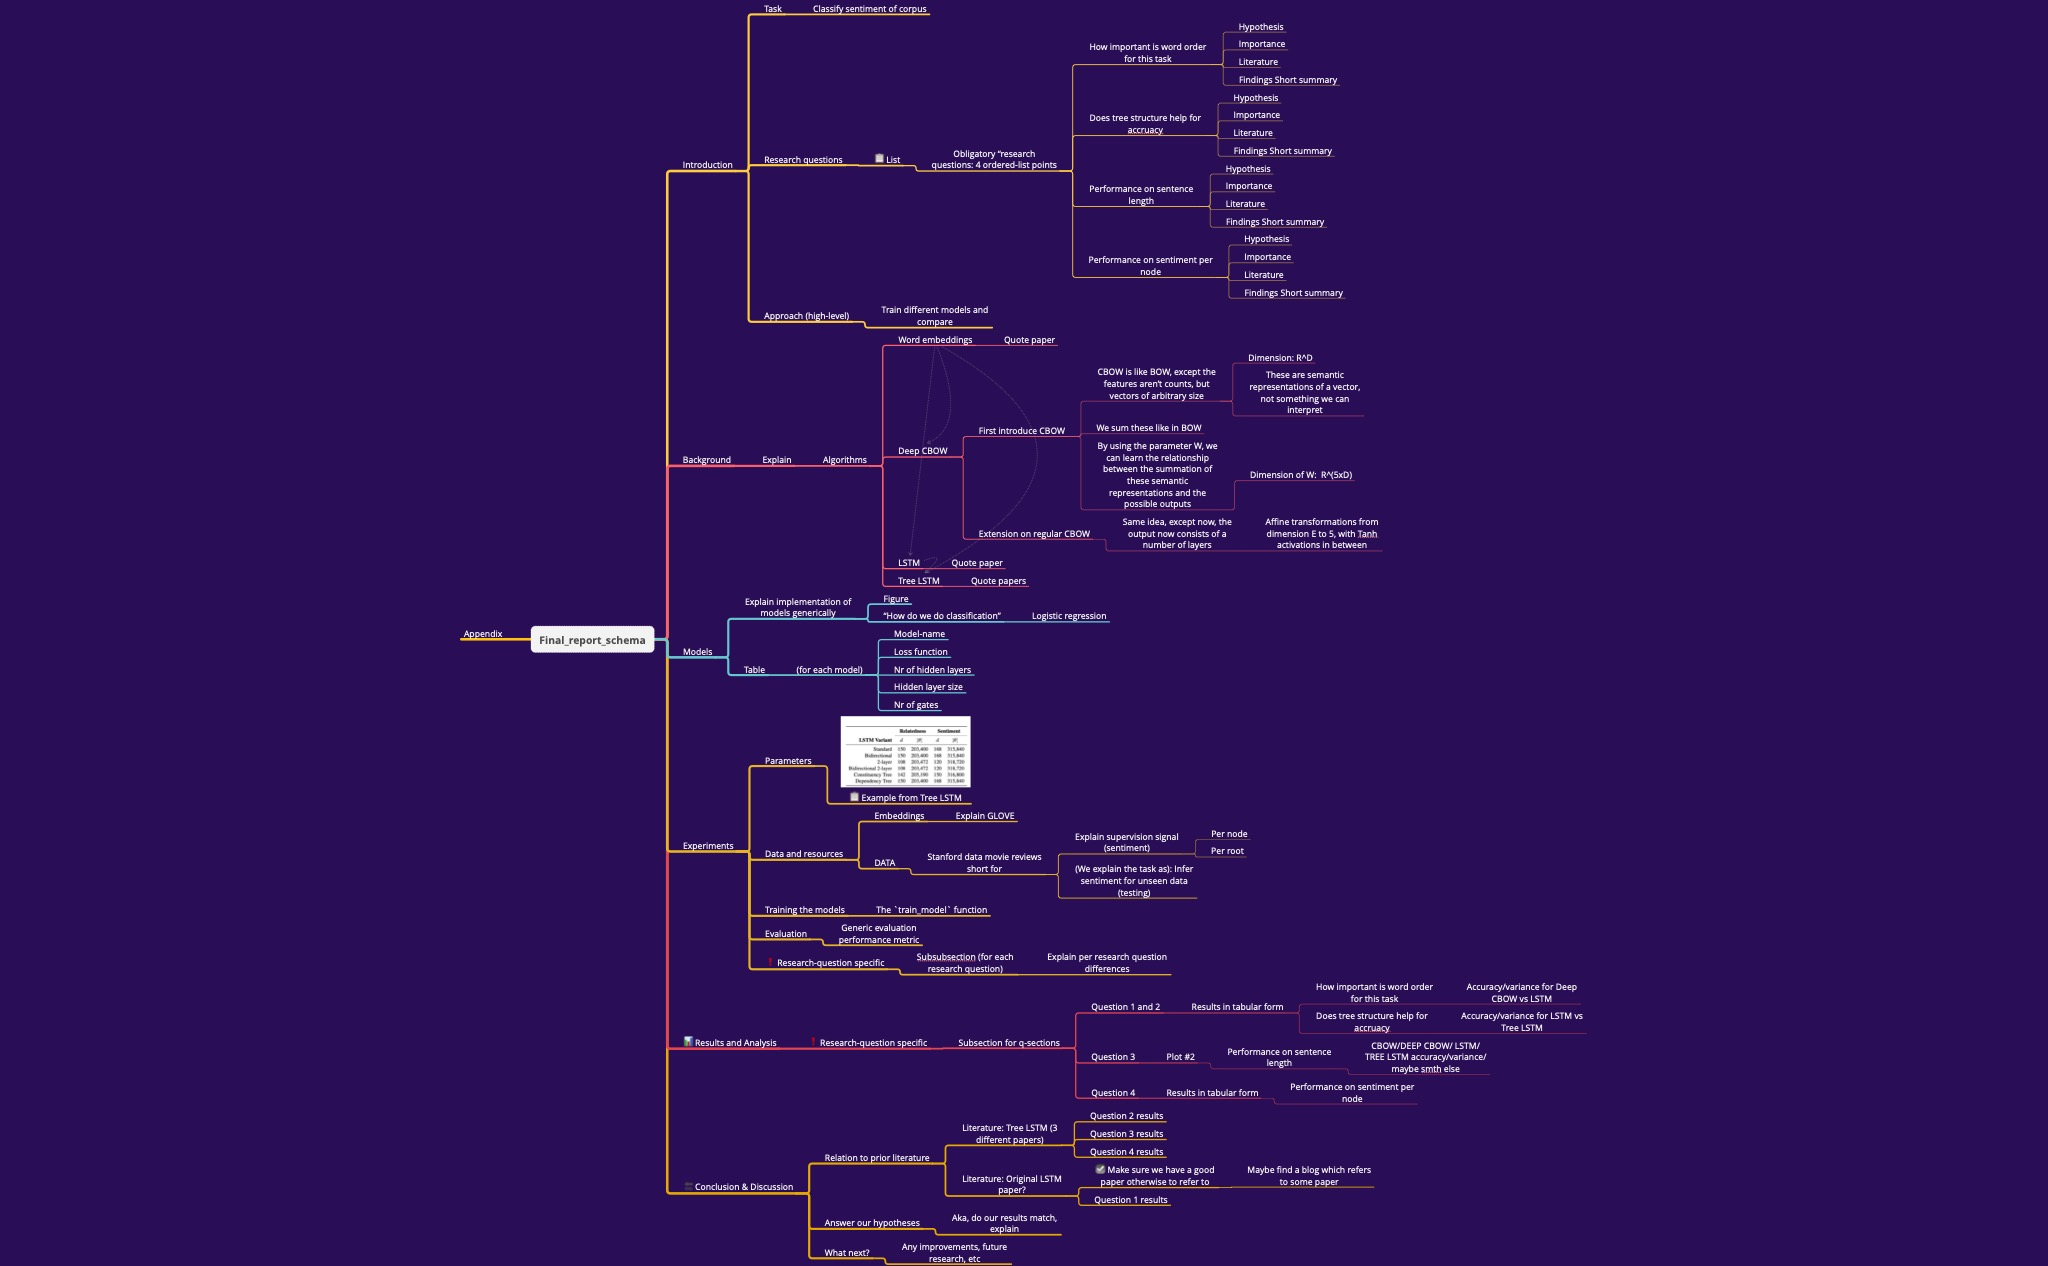
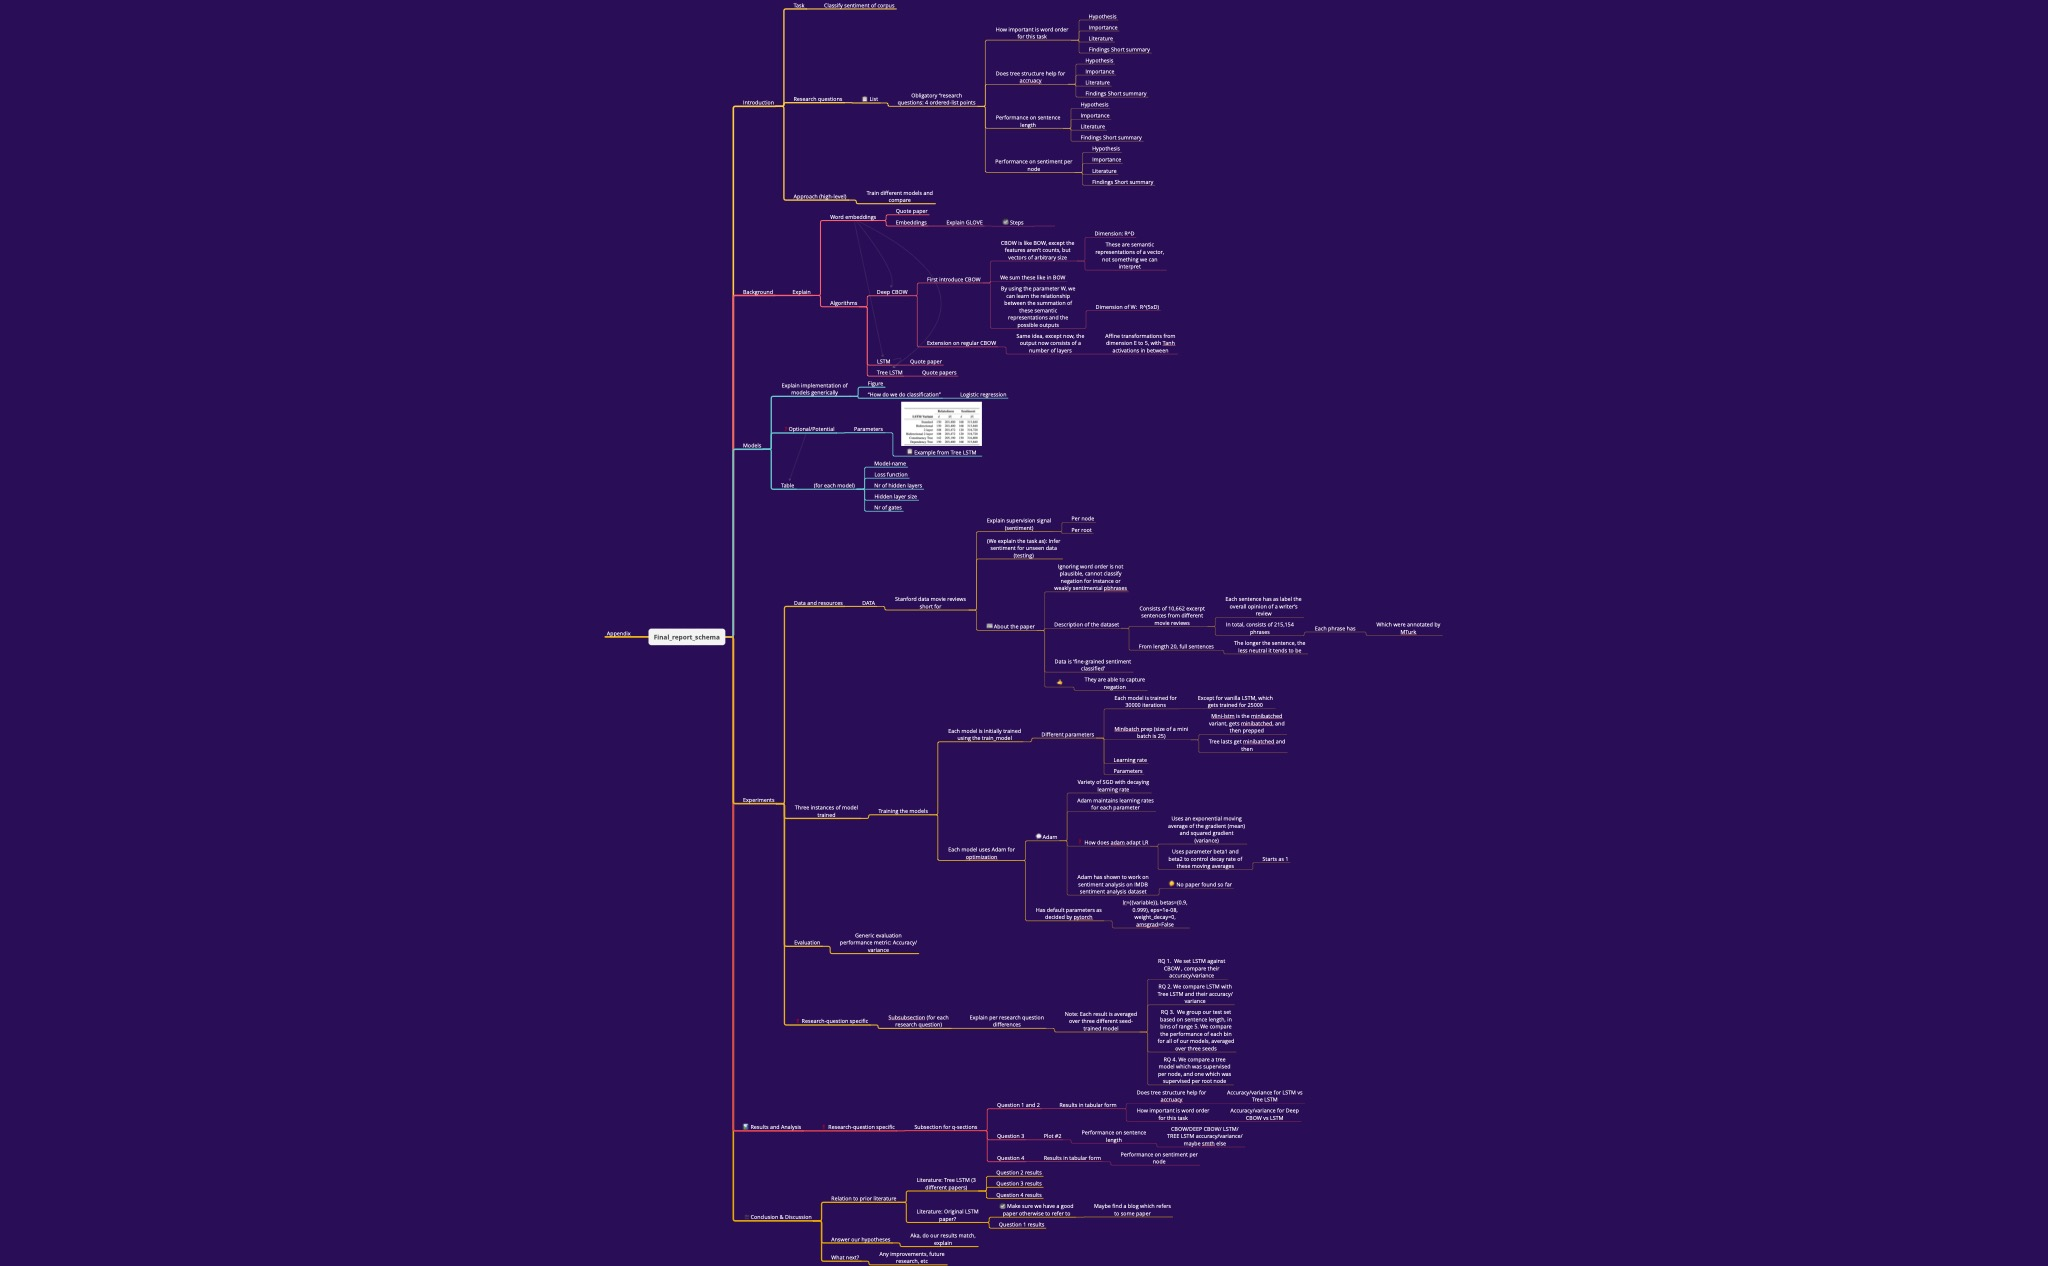
Experiments: Documentation update

Changed region(s): [[0.2188, 0.0, 0.7812, 1.0], [0.375, 0.0, 0.4688, 0.0308], [0.3438, 0.8626, 0.375, 0.8934]]

diff --git a/doc/Final_report_schema.md b/doc/Final_report_schema.md
@@ -61,13 +61,41 @@
 
 ### Explain
 
+- Word embeddings
+
+	- Quote paper
+
+	- Embeddings
+
+		- Explain GLOVE
+
+			- ☑ Steps
+
+				- 
+
 - Algorithms
 
-	- Word embeddings
-
-		- Quote paper
-
 	- Deep CBOW
+
+		- First introduce CBOW
+
+			- CBOW is like BOW, except the features aren’t counts, but vectors of arbitrary size
+
+				- Dimension: R^D
+
+				- These are semantic representations of a vector, not something we can interpret
+
+			- We sum these like in BOW
+
+			- By using the parameter W, we can learn the relationship between the summation of these semantic representations and the possible outputs
+
+				- Dimension of W:  R^(5xD)
+
+		- Extension on regular CBOW
+
+			- Same idea, except now, the output now consists of a number of layers
+
+				- Affine transformations from dimension E to 5, with Tanh activations in between
 
 	- LSTM
 
@@ -87,6 +115,12 @@
 
 	- Logistic regression
 
+###  ❓Optional/Potential
+
+- Parameters
+
+	- 📋 Example from Tree LSTM
+
 ### Table
 
 - (for each model)
@@ -105,10 +139,6 @@
 
 ### Data and resources
 
-- Embeddings
-
-	- Explain GLOVE
-
 - DATA
 
 	- Stanford data movie reviews short for 
@@ -121,19 +151,97 @@
 
 		- (We explain the task as): Infer sentiment for unseen data (testing)
 
-### Training the models
+		- 📰 About the paper
 
-- The `train_model` function
+			- Ignoring word order is not plausible, cannot classify negation for instance or weakly sentimental pbhrases
+
+			- Description of the dataset
+
+				- Consists of 10,662 excerpt sentences from different movie reviews
+
+					- Each sentence has as label the overall opinion of a writer’s review
+
+					- In total, consists of 215,154 phrases
+
+						- Each phrase has 
+
+							- Which were annotated by MTurk
+
+				- From length 20, full sentences
+
+					- The longer the sentence, the less neutral it tends to be
+
+			- Data is ‘fine-grained sentiment classified’
+
+			- 👍
+
+				- They are able to capture negation
+
+### Three instances of model trained
+
+- Training the models
+
+	- Each model is initially trained using the train_model
+
+		- Different parameters
+
+			- Each model is trained for 30000 iterations
+
+				- Except for vanilla LSTM, which gets trained for 25000
+
+			- Minibatch prep (size of a mini batch is 25)
+
+				- Mini-lstm is the minibatched variant, gets minibatched, and then prepped
+
+				- Tree lasts get minibatched and then 
+
+			- Learning rate
+
+			- Parameters
+
+	- Each model uses Adam for optimization
+
+		- 💬 Adam
+
+			- Variety of SGD with decaying learning rate
+
+			- Adam maintains learning rates for each parameter
+
+			- ❓ How does adam adapt LR
+
+				- Uses an exponential moving average of the gradient (mean) and squared gradient  (variance)
+
+				- Uses parameter beta1 and beta2 to control decay rate of these moving averages
+
+					- Starts as 1
+
+			- Adam has shown to work on sentiment analysis on IMDB sentiment analysis dataset
+
+				- 🤔 No paper found so far
+
+		- Has default parameters as decided by pytorch
+
+			- lr={{variable}}, betas=(0.9, 0.999), eps=1e-08, weight_decay=0, amsgrad=False
 
 ### Evaluation
 
-- Generic evaluation performance metric
+- Generic evaluation performance metric: Accuracy/variance
 
 ### ❗ Research-question specific
 
 - Subsubsection (for each research question)
 
 	- Explain per research question differences
+
+		- Note: Each result is averaged over three different seed-trained model
+
+			- RQ 1.  We set LSTM against CBOW , compare their accuracy/variance
+
+			- RQ 2. We compare LSTM with Tree LSTM and their accuracy/variance
+
+			- RQ 3.  We group our test set based on sentence length, in bins of range 5. We compare the performance of each bin for all of our models, averaged over three seeds
+
+			- RQ 4. We compare a tree model which was supervised per node, and one which was supervised per root node
 
 ## 📊 Results and Analysis
 
@@ -145,13 +253,13 @@
 
 		- Results in tabular form
 
-			- How important is word order for this task
-
-				- Accuracy/variance for Deep CBOW vs LSTM
-
 			- Does tree structure help for accruacy
 
 				- Accuracy/variance for LSTM vs Tree LSTM
+
+			- How important is word order for this task
+
+				- Accuracy/variance for Deep CBOW vs LSTM
 
 	- Question 3
 
